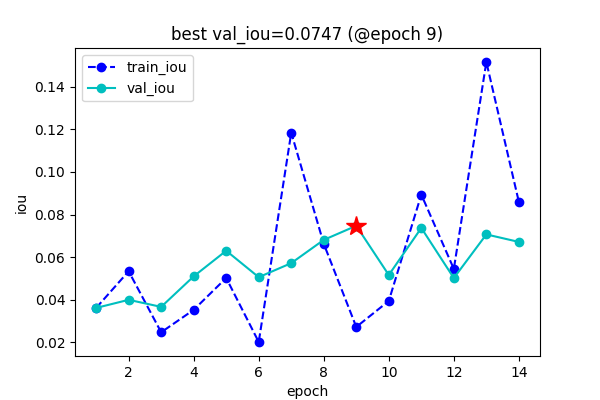
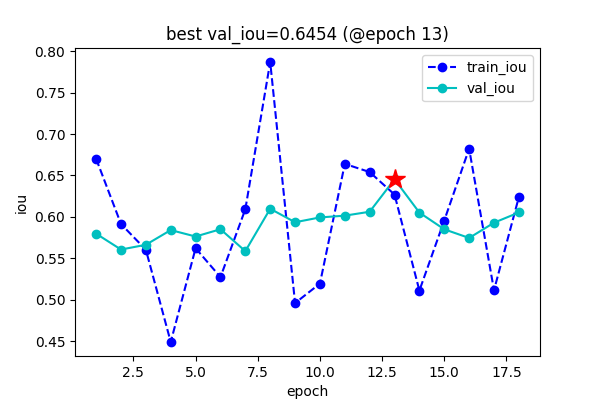
liga

diff --git a/liga/model.py b/liga/model.py
@@ -14,12 +14,12 @@ from segment_anything import SamPredictor, sam_model_registry
 
 import torch
 from torch import nn
-# try:
-#     import flash_attn
-#     # use_flash_attn2 = True
-#     ATTENTION_MODULE=LIGAFlashAttention2
-# except:
-#     ATTENTION_MODULE=LIGASdpaAttention
+try:
+    import flash_attn
+    # use_flash_attn2 = True
+    ATTENTION_MODULE=LIGAFlashAttention2
+except:
+    ATTENTION_MODULE=LIGASdpaAttention
 @dataclass
 class LIGAOutput(ModelOutput):
     last_hidden_state: torch.FloatTensor = None
@@ -28,6 +28,7 @@ class LIGAOutput(ModelOutput):
     loss: torch.FloatTensor = None
     iou: torch.FloatTensor = None
     giou: torch.FloatTensor = None
+    boxes: torch.FloatTensor = None
     embedding_mse_loss: torch.FloatTensor = None
     boxes_mse_loss: torch.FloatTensor = None
     giou_loss: torch.FloatTensor = None
@@ -175,60 +176,60 @@ def calculate_giou(boxes1, boxes2):
     return iou, giou
 
 
-# class LIGAEncoderLayer(nn.Module):
-#     def __init__(self, config, layer_idx: int=None):
-#         super().__init__()
-#         self.hidden_size = config.hidden_size
+class LIGAEncoderLayer(nn.Module):
+    def __init__(self, config, layer_idx: int=None):
+        super().__init__()
+        self.hidden_size = config.hidden_size
 
-#         self.self_attn = ATTENTION_MODULE(config=config, layer_idx=layer_idx)
+        self.self_attn = ATTENTION_MODULE(config=config, layer_idx=layer_idx)
 
-#         self.mlp = LIGAMLP(config)
-#         self.input_layernorm = LIGARMSNorm(config.hidden_size, eps=config.rms_norm_eps)
-#         self.post_attention_layernorm = LIGARMSNorm(config.hidden_size, eps=config.rms_norm_eps)
+        self.mlp = LIGAMLP(config)
+        self.input_layernorm = LIGARMSNorm(config.hidden_size, eps=config.rms_norm_eps)
+        self.post_attention_layernorm = LIGARMSNorm(config.hidden_size, eps=config.rms_norm_eps)
 
-#     def forward(
-#         self,
-#         hidden_states: torch.Tensor,
-#         attention_mask: Optional[torch.Tensor] = None,
-#         position_ids: Optional[torch.LongTensor] = None,
-#         past_key_value: Optional[Tuple[torch.Tensor]] = None,
-#         output_attentions: Optional[bool] = False,
-#         use_cache: Optional[bool] = False,
-#         **kwargs,
-#     ) -> Tuple[torch.FloatTensor, Optional[Tuple[torch.FloatTensor, torch.FloatTensor]]]:
+    def forward(
+        self,
+        hidden_states: torch.Tensor,
+        attention_mask: Optional[torch.Tensor] = None,
+        position_ids: Optional[torch.LongTensor] = None,
+        past_key_value: Optional[Tuple[torch.Tensor]] = None,
+        output_attentions: Optional[bool] = False,
+        use_cache: Optional[bool] = False,
+        **kwargs,
+    ) -> Tuple[torch.FloatTensor, Optional[Tuple[torch.FloatTensor, torch.FloatTensor]]]:
         
 
-#         residual = hidden_states
+        residual = hidden_states
 
-#         hidden_states = self.input_layernorm(hidden_states)
+        hidden_states = self.input_layernorm(hidden_states)
 
-#         # Self Attention
-#         hidden_states, self_attn_weights, present_key_value = self.self_attn(
-#             hidden_states=hidden_states,
-#             attention_mask=attention_mask,
-#             position_ids=position_ids,
-#             past_key_value=past_key_value,
-#             output_attentions=output_attentions,
-#             use_cache=use_cache,
-#             **kwargs,
-#         )
-#         hidden_states = residual + hidden_states
+        # Self Attention
+        hidden_states, self_attn_weights, present_key_value = self.self_attn(
+            hidden_states=hidden_states,
+            attention_mask=attention_mask,
+            position_ids=position_ids,
+            past_key_value=past_key_value,
+            output_attentions=output_attentions,
+            use_cache=use_cache,
+            **kwargs,
+        )
+        hidden_states = residual + hidden_states
 
-#         # Fully Connected
-#         residual = hidden_states
-#         hidden_states = self.post_attention_layernorm(hidden_states)
-#         hidden_states = self.mlp(hidden_states)
-#         hidden_states = residual + hidden_states
+        # Fully Connected
+        residual = hidden_states
+        hidden_states = self.post_attention_layernorm(hidden_states)
+        hidden_states = self.mlp(hidden_states)
+        hidden_states = residual + hidden_states
 
-#         outputs = (hidden_states,)
+        outputs = (hidden_states,)
         
-#         if output_attentions:
-#             outputs += (self_attn_weights,)
+        if output_attentions:
+            outputs += (self_attn_weights,)
 
-#         if use_cache:
-#             outputs += (present_key_value,)
+        if use_cache:
+            outputs += (present_key_value,)
 
-#         return outputs
+        return outputs
 
 class NextChatConfig(CLIPConfig):
     model_type = "liga"
@@ -238,6 +239,7 @@ class NextChatConfig(CLIPConfig):
     image_size = 1024
     sam_path = 'checkpoints/sam/sam_vit_h_4b8939.pth'
     decoder_path = 'checkpoints/decoder.pt'
+    fusion_encoder_layers = 4
 
 class LIGAModel(CLIPModel):
     
@@ -292,14 +294,14 @@ class LIGAModel(CLIPModel):
             nn.Linear(self.clip_vison_hidden_size, self.clip_text_hidden_size)
         )
         self.loss_fn = nn.MSELoss()
-        self.load_decoder()
+        # self.load_decoder()
         self.post_init()
     
     @property
     def dtype(self):
         return self.text_projection.weight.data.dtype
     
-    def forward(self, images, texts, boxes, boxes_embeddings, ori_shapes):
+    def forward(self, images, texts, boxes=None, ori_shapes=None):
         dino_input = self.dino_processor(images, return_tensors="pt").to(device=self.device, dtype=self.dtype)
         dino_embeddings = self.dino_model(**dino_input).feature_maps[-1]
         b, c = dino_embeddings.shape[:2]
@@ -317,7 +319,7 @@ class LIGAModel(CLIPModel):
         # print(vision_embeddings.shape)
         return self.forward_text_transformer(**clip_input,
                                              boxes=boxes,
-                                             boxes_embeddings=boxes_embeddings,
+                                            #  boxes_embeddings=boxes_embeddings,
                                              ori_shapes=ori_shapes,
                                              vision_embeddings=vision_embeddings)
     
@@ -392,11 +394,11 @@ class LIGAModel(CLIPModel):
         
         # else:
         #     loss = None
+        pred_boxes = self.box_decoder(object_embeddings)
         if boxes is not None:
             boxes = boxes.to(device=self.device, dtype=self.dtype)
             boxes_embeddings = self.box_encoder(boxes)
             embedding_mse_loss = self.loss_fn(object_embeddings, boxes_embeddings)
-            pred_boxes = self.box_decoder(object_embeddings)
             boxes_mse_loss = self.loss_fn(pred_boxes, boxes)
             iou, giou = calculate_giou(pred_boxes, boxes)
             giou_loss = (1 - giou).mean(0)
@@ -410,10 +412,11 @@ class LIGAModel(CLIPModel):
             embedding_mse_loss = None
             boxes_mse_loss = None
             giou_loss = None
-            
-            
+            loss = None
         
-        
+        if ori_shapes is not None:
+            pred_boxes[:, [0, 2]] *= ori_shapes[:, 1]
+            pred_boxes[:, [1, 3]] *= ori_shapes[:, 0]
 
         # if self.eos_token_id == 2:
         #     # The `eos_token_id` was incorrect before PR #24773: Let's keep what have been done here.
@@ -446,6 +449,7 @@ class LIGAModel(CLIPModel):
             boxes_mse_loss=boxes_mse_loss,
             giou_loss=giou_loss,
             loss=loss,
+            boxes=pred_boxes,
             object_embeddings=object_embeddings,
             hidden_states=encoder_outputs.hidden_states,
             attentions=encoder_outputs.attentions,

diff --git a/convert_hf.py b/convert_hf.py
@@ -1,0 +1,33 @@
+import os
+import requests
+import torchkeras
+import torch
+from torch import nn
+from torch.utils.data import Dataset,DataLoader
+from liga.model import LIGAModel
+from segment_anything import SamPredictor, sam_model_registry
+from omegaconf import OmegaConf
+from functools import partial
+from PIL import Image
+from tqdm import tqdm
+from utils.utils import StepRunner
+from utils.dataset import RefCOCO, collate_fn
+from accelerate import Accelerator, DistributedDataParallelKwargs
+torchkeras.KerasModel.StepRunner = StepRunner
+
+CONFIG_PATH = 'configs/train.yaml'
+def parse_args():
+    return OmegaConf.load(CONFIG_PATH)
+
+def main(args):
+    model_args = args.model
+    train_args = args.train
+    ckpt = torch.load(train_args.save_path)
+    liga_model = LIGAModel.from_pretrained(model_args.clip_model, **model_args)
+    liga_model.load_state_dict(ckpt)
+    hf_model_save_path = train_args.save_path[:-3] + '-hf'
+    liga_model.save_pretrained(hf_model_save_path)
+    print('hf model saved!')
+
+if __name__ == '__main__':
+    main(parse_args())

diff --git a/train.py b/train.py
@@ -34,8 +34,8 @@ def main(args):
         p.requires_grad = False
     for p in liga_model.dino_model.parameters(): 
         p.requires_grad = False
-    for p in liga_model.box_decoder.parameters():
-        p.requires_grad = False
+    # for p in liga_model.box_decoder.parameters():
+    #     p.requires_grad = False
     for p in liga_model.visual_projection.parameters():
         p.requires_grad = False
     for p in liga_model.text_projection.parameters():
@@ -56,6 +56,8 @@ def main(args):
       optimizer= OPTIMIZER(list(liga_model.text_model.parameters()) + \
                            list(liga_model.object_projector.parameters()) +\
                            list(liga_model.dino_projector.parameters()) +\
+                           list(liga_model.box_encoder.parameters()) +\
+                           list(liga_model.box_decoder.parameters()) +\
                            [liga_model.object_embedding] +\
                            list(liga_model.clip_projector.parameters()),lr=train_args.lr),
       metrics_dict = {},
